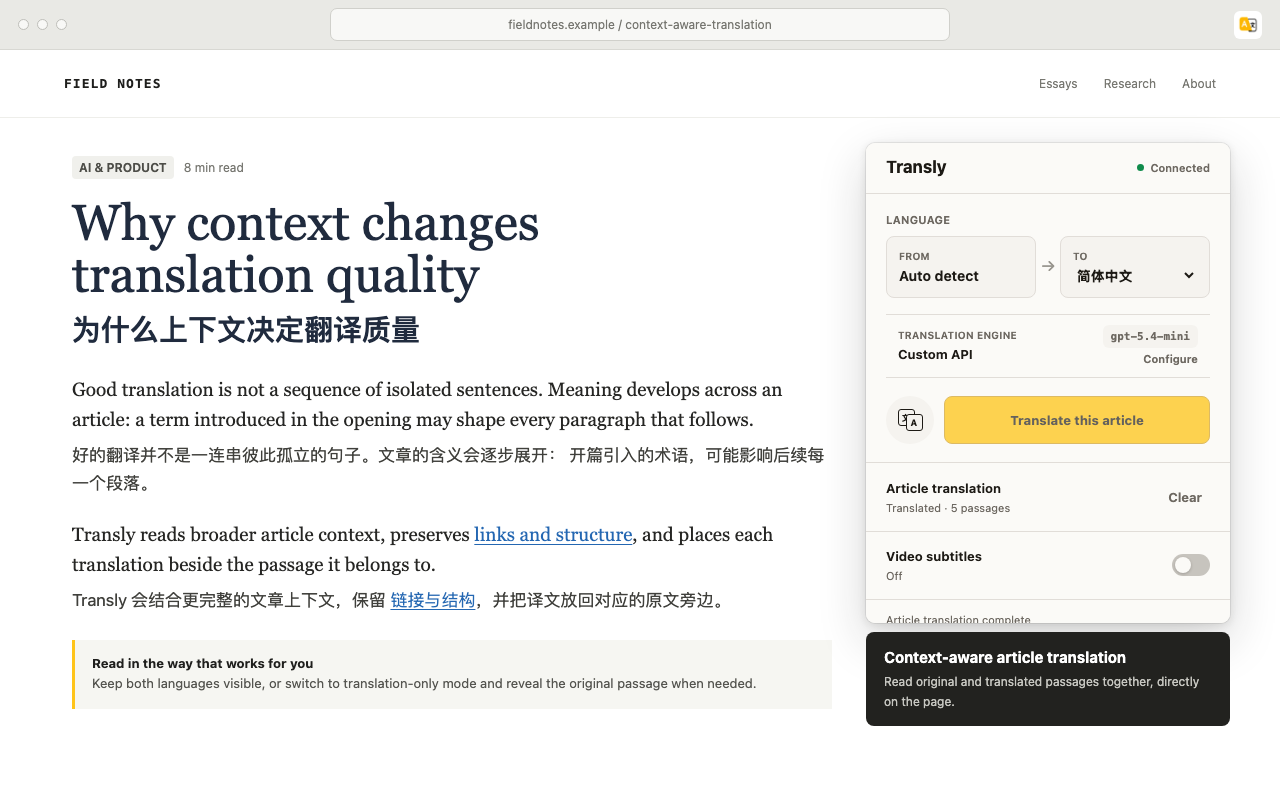
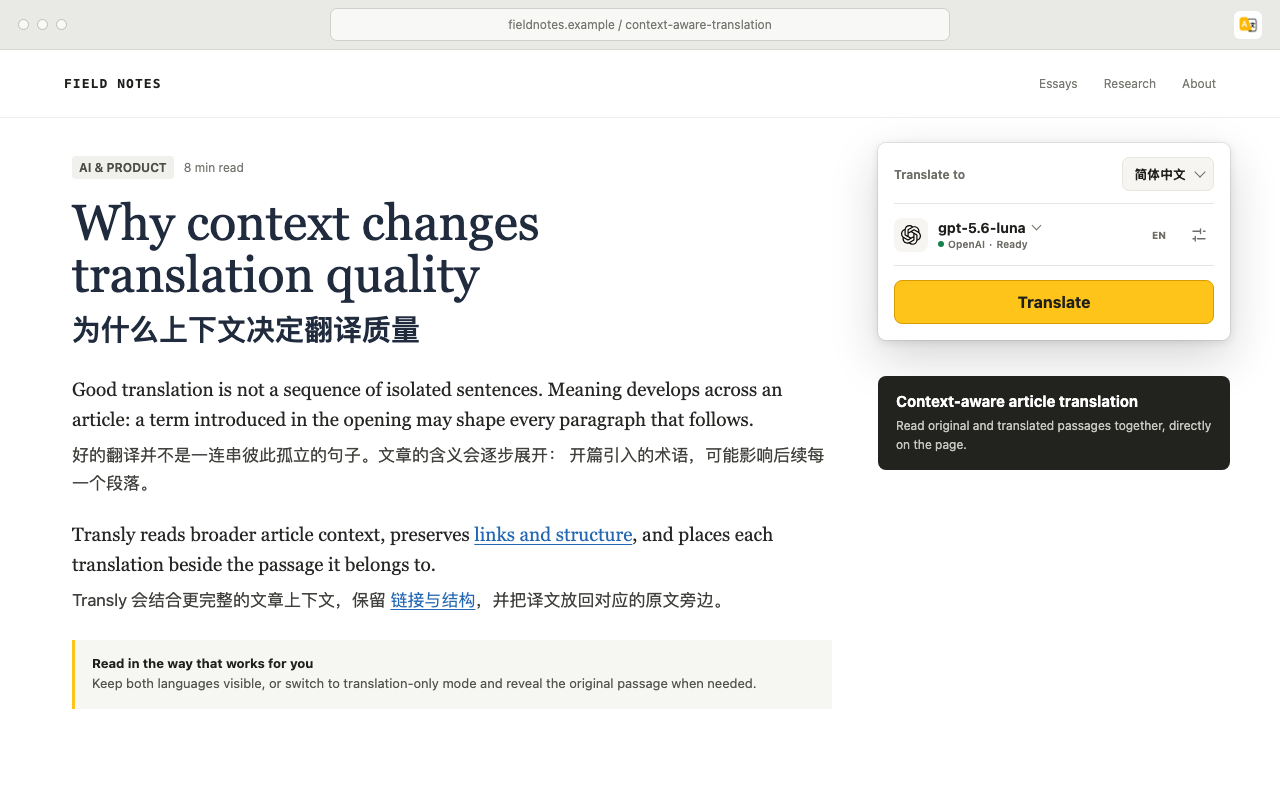
Refresh product screenshots

diff --git a/marketing/chrome-web-store/article-bilingual.html b/marketing/chrome-web-store/article-bilingual.html
@@ -208,22 +208,165 @@
         position: absolute;
         top: 93px;
         right: 50px;
-        width: 364px;
-        height: 480px;
-        border: 0;
-        border-radius: 9px;
-        background: #fcfbf8;
+        width: 352px;
+        padding: 14px 16px 16px;
+        border-radius: 8px;
+        background: var(--paper);
         box-shadow:
           0 18px 48px rgb(29 29 27 / 18%),
           0 2px 8px rgb(29 29 27 / 12%),
           0 0 0 1px rgb(29 29 27 / 8%);
       }
 
+      .popup-frame button {
+        border: 0;
+        color: var(--ink);
+        font: inherit;
+      }
+
+      .popup-language-row {
+        display: flex;
+        min-height: 42px;
+        align-items: center;
+        justify-content: space-between;
+        gap: 16px;
+        padding-bottom: 12px;
+        border-bottom: 1px solid #e7e5e0;
+      }
+
+      .popup-label {
+        color: #6f6d67;
+        font-size: 12px;
+        font-weight: 650;
+      }
+
+      .popup-select {
+        display: flex;
+        min-height: 34px;
+        align-items: center;
+        gap: 10px;
+        padding: 0 9px 0 11px;
+        border: 1px solid #e7e5e0 !important;
+        border-radius: 7px;
+        background: #f6f5f2;
+        font-size: 13px !important;
+        font-weight: 650 !important;
+      }
+
+      .chevron {
+        width: 8px;
+        height: 8px;
+        border-right: 1.5px solid #6f6d67;
+        border-bottom: 1.5px solid #6f6d67;
+        transform: translateY(-2px) rotate(45deg);
+      }
+
+      .popup-engine-row {
+        display: flex;
+        min-height: 62px;
+        align-items: center;
+        gap: 10px;
+        border-bottom: 1px solid #e7e5e0;
+      }
+
+      .provider-mark {
+        display: grid;
+        width: 34px;
+        height: 34px;
+        flex: 0 0 auto;
+        place-items: center;
+        border-radius: 8px;
+        background: #f6f5f2;
+      }
+
+      .provider-mark img {
+        width: 20px;
+        height: 20px;
+      }
+
+      .engine-copy {
+        display: flex;
+        min-width: 0;
+        flex: 1;
+        flex-direction: column;
+        gap: 2px;
+      }
+
+      .engine-model {
+        display: flex;
+        align-items: center;
+        gap: 7px;
+        font-size: 14px;
+        font-weight: 680;
+      }
+
+      .engine-model .chevron {
+        width: 7px;
+        height: 7px;
+      }
+
+      .provider-meta {
+        display: flex;
+        align-items: center;
+        gap: 4px;
+        color: #6f6d67;
+        font-size: 10px;
+        font-weight: 600;
+      }
+
+      .provider-dot {
+        width: 6px;
+        height: 6px;
+        border-radius: 50%;
+        background: #16834d;
+      }
+
+      .popup-icon-button {
+        display: grid;
+        width: 30px;
+        height: 30px;
+        flex: 0 0 auto;
+        place-items: center;
+        padding: 0;
+        border-radius: 7px;
+        background: transparent;
+        color: #6f6d67 !important;
+        font-size: 10px !important;
+        font-weight: 750 !important;
+      }
+
+      .popup-icon-button svg {
+        width: 18px;
+        height: 18px;
+        fill: none;
+        stroke: currentColor;
+        stroke-linecap: round;
+        stroke-linejoin: round;
+        stroke-width: 1.8;
+      }
+
+      .popup-action-row {
+        padding-top: 14px;
+      }
+
+      .popup-primary-action {
+        display: flex;
+        width: 100%;
+        min-height: 44px;
+        align-items: center;
+        justify-content: center;
+        padding: 0 16px;
+        border: 1px solid #d79d00 !important;
+        border-radius: 8px;
+        background: var(--accent);
+        font-weight: 720 !important;
+      }
+
       .caption {
         position: absolute;
         right: 50px;
-        bottom: 74px;
-        width: 364px;
+        top: 326px;
+        width: 352px;
         padding: 16px 18px;
         border-radius: 8px;
         background: #22221f;
@@ -306,12 +449,43 @@
         </aside>
       </article>
 
-      <iframe
-        id="translyPopup"
-        class="popup-frame"
-        src="../../popup.html"
-        title="Transly popup"
-      ></iframe>
+      <aside class="popup-frame" aria-label="Transly popup">
+        <div class="popup-language-row">
+          <span class="popup-label">Translate to</span>
+          <button class="popup-select" type="button">
+            <span>简体中文</span>
+            <span class="chevron" aria-hidden="true"></span>
+          </button>
+        </div>
+
+        <div class="popup-engine-row">
+          <div class="provider-mark">
+            <img src="../../assets/providers/openai.svg" alt="">
+          </div>
+          <div class="engine-copy">
+            <div class="engine-model">
+              <span>gpt-5.6-luna</span>
+              <span class="chevron" aria-hidden="true"></span>
+            </div>
+            <div class="provider-meta">
+              <span class="provider-dot" aria-hidden="true"></span>
+              <span>OpenAI</span>
+              <span aria-hidden="true">·</span>
+              <span>Ready</span>
+            </div>
+          </div>
+          <button class="popup-icon-button" type="button" aria-label="Interface language">EN</button>
+          <button class="popup-icon-button" type="button" aria-label="Translation settings">
+            <svg viewBox="0 0 24 24" aria-hidden="true">
+              <path d="M4 7h10M18 7h2M4 17h2M10 17h10M14 4v6M7 14v6"></path>
+            </svg>
+          </button>
+        </div>
+
+        <div class="popup-action-row">
+          <button class="popup-primary-action" type="button">Translate</button>
+        </div>
+      </aside>
 
       <div class="caption">
         <strong>Context-aware article translation</strong>
@@ -321,26 +495,5 @@
       </div>
     </main>
 
-    <script>
-      const frame = document.querySelector("#translyPopup");
-      function applyScreenshotState() {
-        const doc = frame.contentDocument;
-        if (!doc) return;
-        const badge = doc.querySelector("#connectionBadge");
-        if (!badge) return;
-        badge.dataset.state = "ready";
-        doc.querySelector("#connectionLabel").textContent = "Connected";
-        doc.querySelector("#providerValue").textContent = "Custom API";
-        doc.querySelector("#modelValue").textContent = "gpt-5.4-mini";
-        doc.querySelector("#articleState").textContent = "Translated · 5 passages";
-        doc.querySelector("#clearArticle").disabled = false;
-        doc.querySelector("#status").textContent = "Article translation complete";
-      }
-
-      frame.addEventListener("load", () => {
-        applyScreenshotState();
-        setInterval(applyScreenshotState, 100);
-      });
-    </script>
   </body>
 </html>

diff --git a/docs/chrome-web-store.md b/docs/chrome-web-store.md
@@ -147,6 +147,12 @@ The bilingual article scene is stored as editable HTML at
 - `transly-article-bilingual-1280x800.png` for Chrome Web Store upload;
 - `transly-article-bilingual-2560x1600.png` for high-density README display.
 
+Regenerate both files after a material popup or article-presentation change:
+
+```bash
+npm run capture:marketing
+```
+
 Do not use screenshots that expose API keys, local client keys, browser profile
 details, or private webpage content.
 
